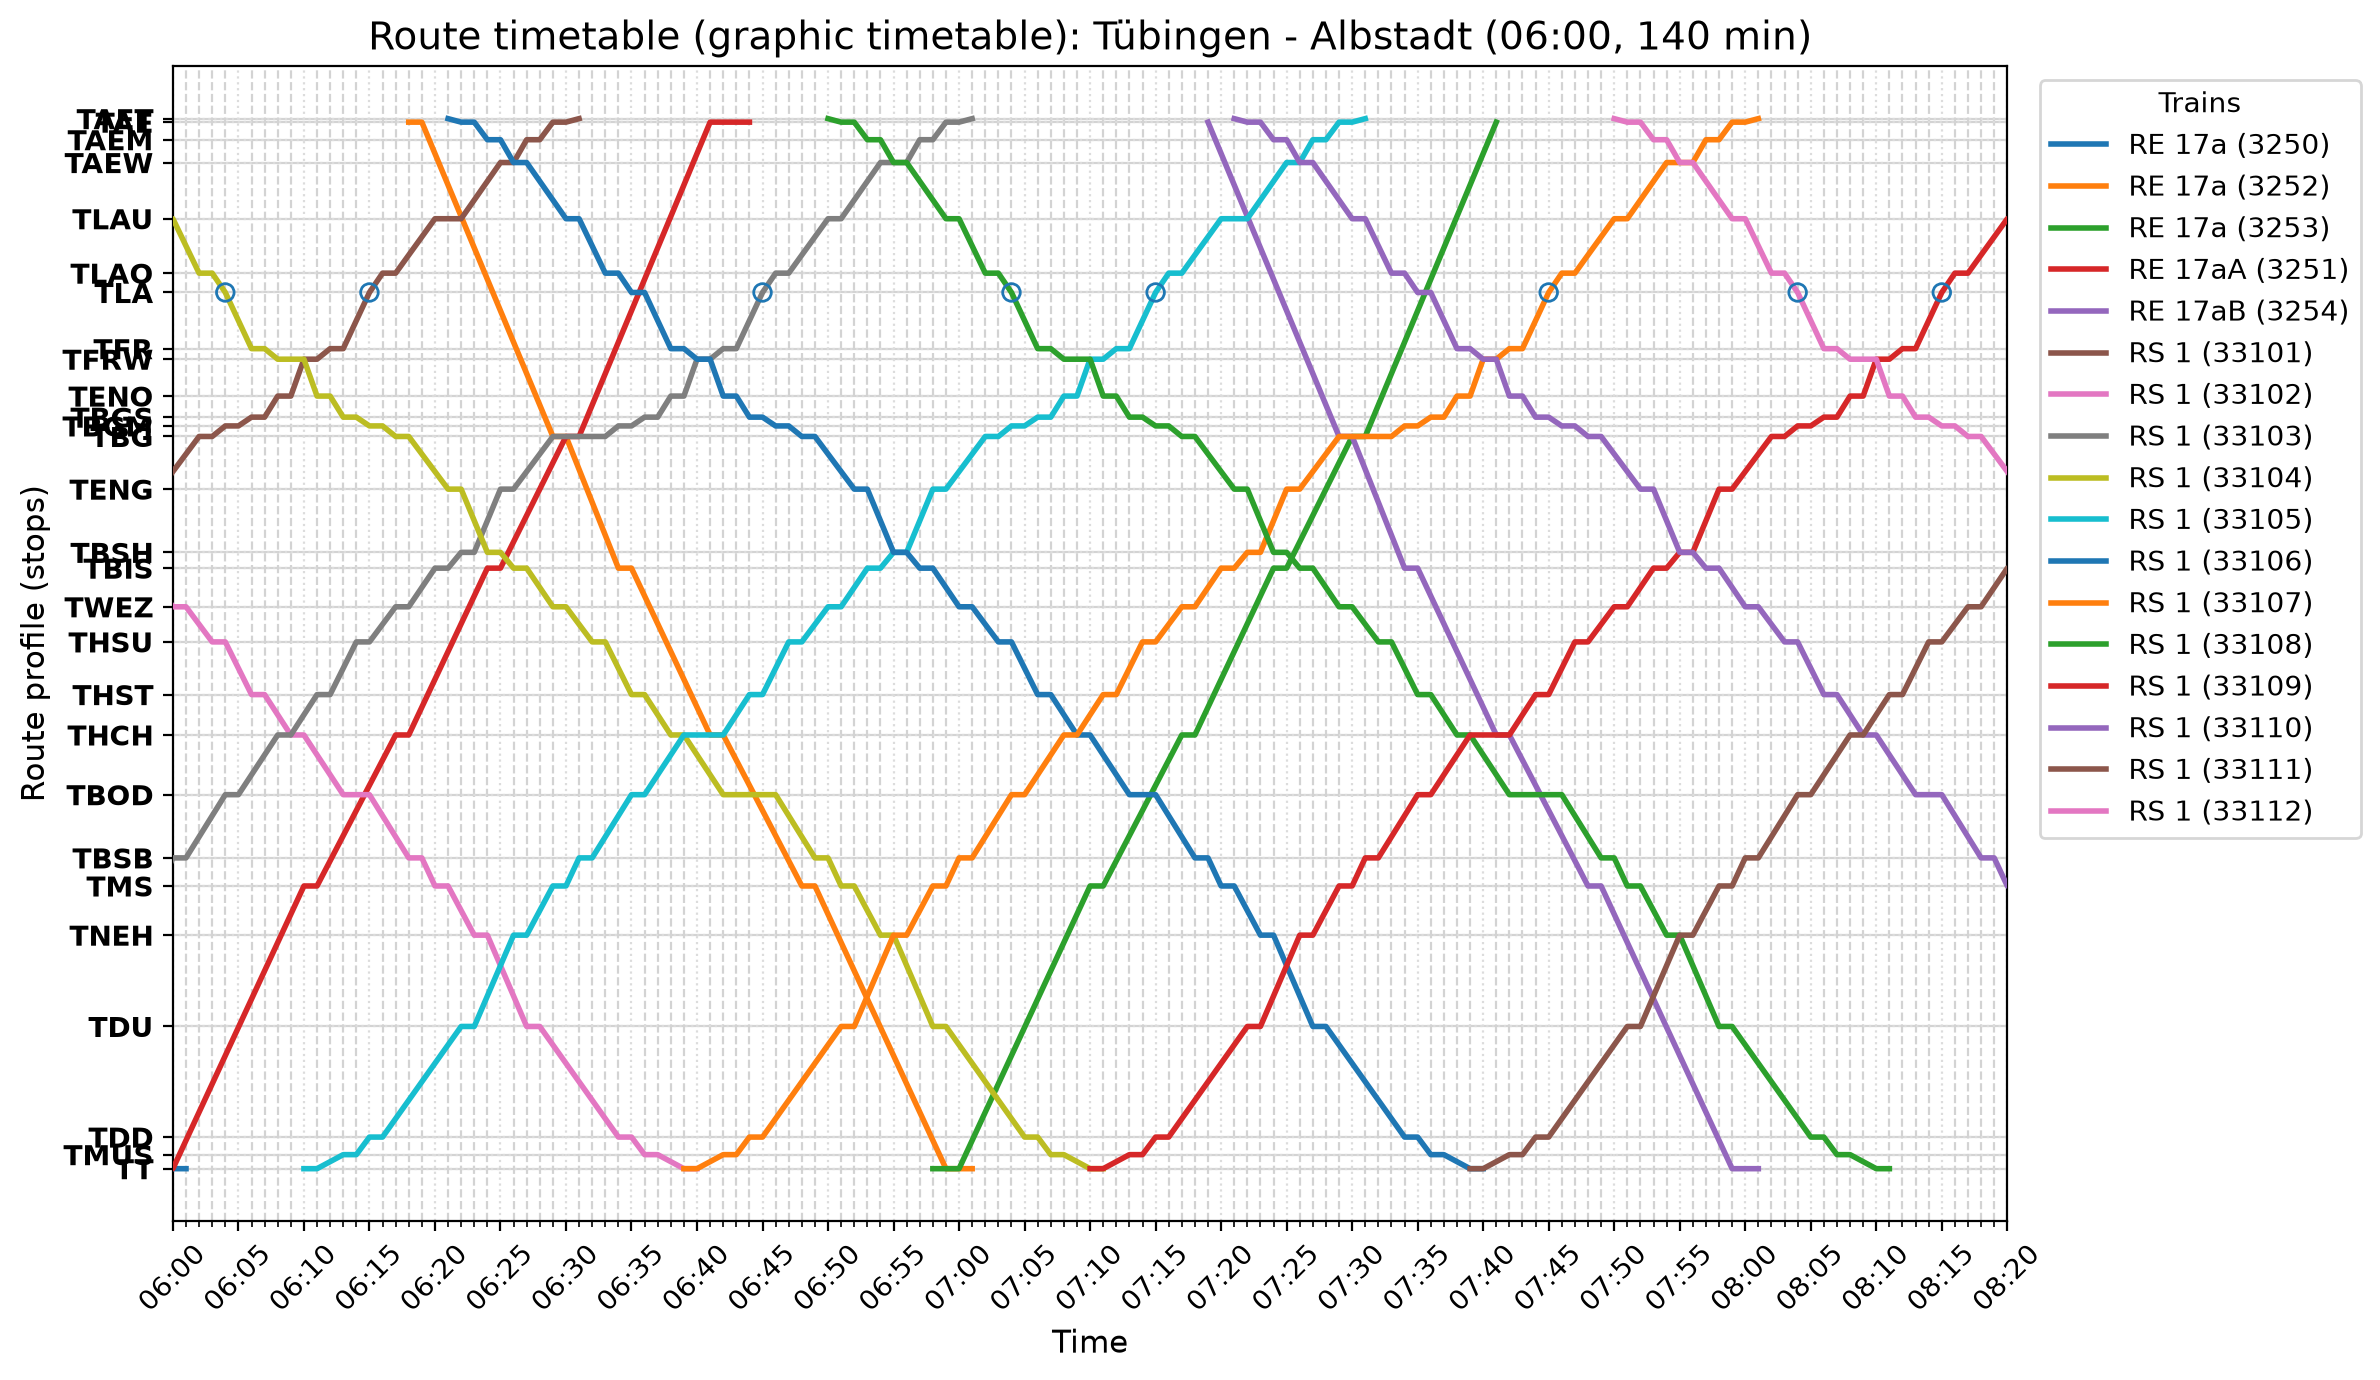
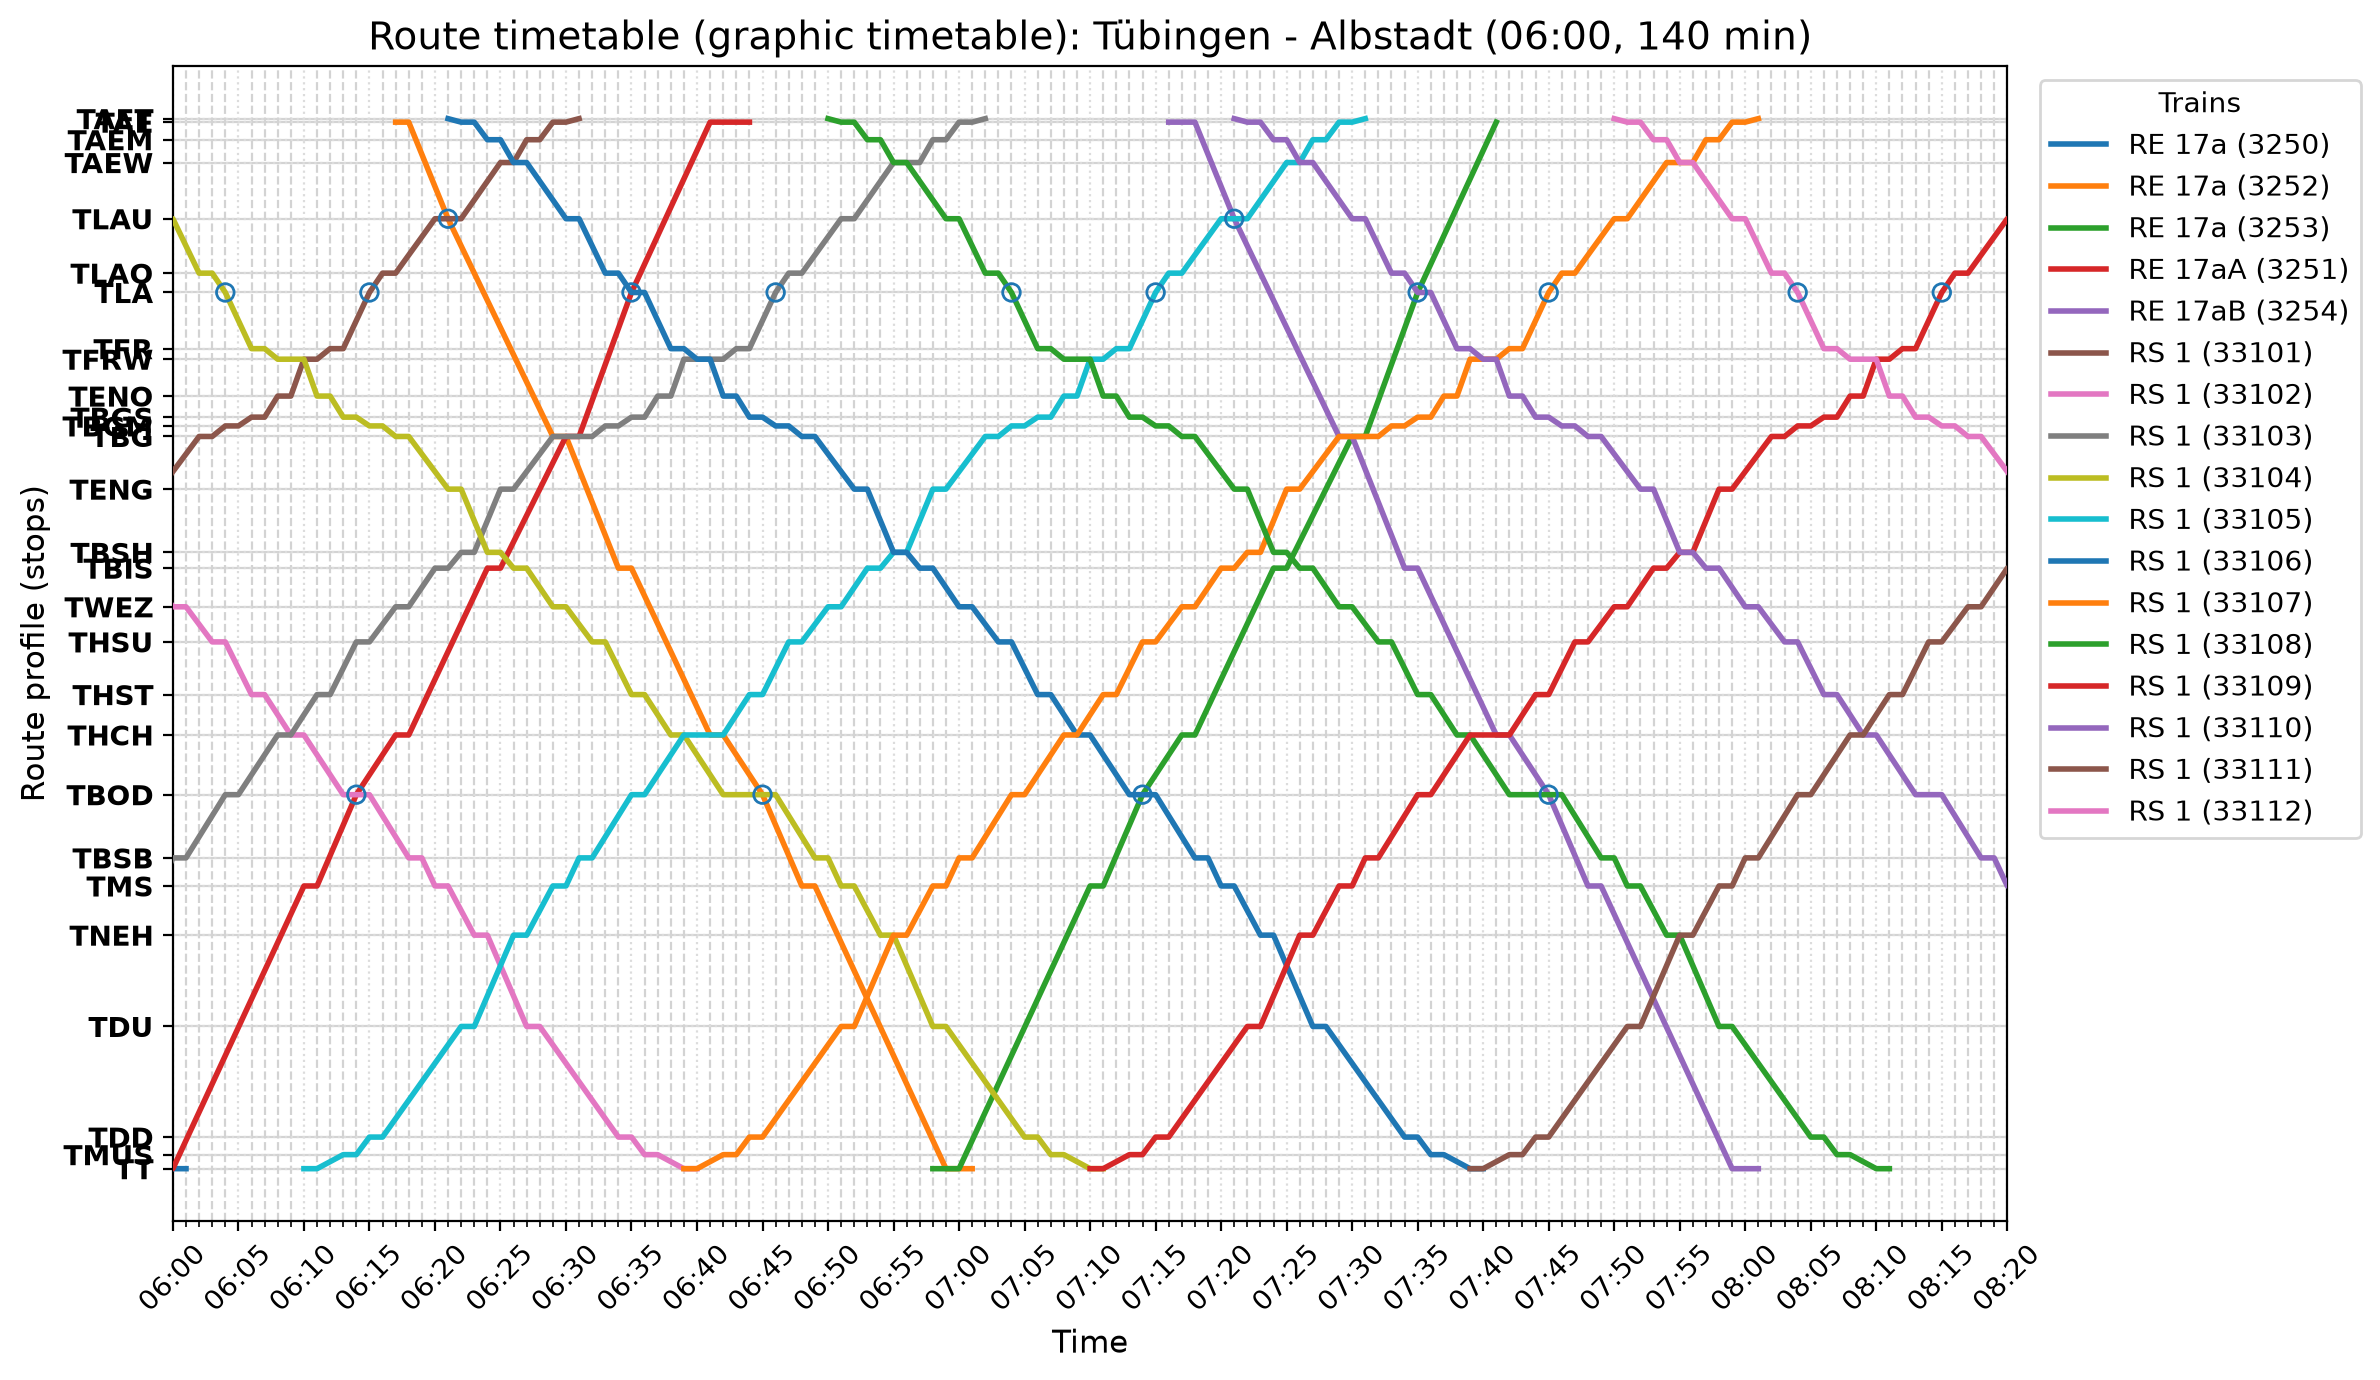
Working Version ZAB

diff --git a/main.py b/main.py
@@ -431,10 +431,10 @@ RE_3253.set_origin("RTU", 1, platform=2)
 RE_3253.change_platform(station_code_to_id("TT"), 2)
 RE_3253.change_platform(station_code_to_id("TBG"), 3)
 
-RE_3254 = Train.from_blueprint(3254, RE17A_ALBSTADT_REUTLINGEN, "RE 17a", "7:16", "LPPLPPL", "REGIONAL", 160)
+RE_3254 = Train.from_blueprint(3254, RE17A_ALBSTADT_REUTLINGEN, "RE 17a", "7:15", "LPPLPPL", "REGIONAL", 160)
 RE_3254.change_platform(station_code_to_id("TT"), 3)
 RE_3254.change_platform(station_code_to_id("TAE"), 2)
-RE_3251.change_platform(station_code_to_id("TBG"), 2)
+RE_3254.change_platform(station_code_to_id("TBG"), 2)
 RE_3254.extend_stop(station_code_to_id("TAE"), 2)
 RE_3254.set_ending(station_code_to_id("RTU"), 1, platform=1)
 RE_3251.add_leg(RE_3254)
@@ -521,6 +521,7 @@ S1_33106 = Train.from_blueprint(33106, RS1_ALBSTADT_TUEBINGEN, "RS 1", "6:21", "
 S1_33106.change_platform(station_code_to_id("TT"), 6)
 S1_33106.set_ending(station_code_to_id("TTBW"), 2)
 S1_33106.extend_stop(station_code_to_id("TLA"), 1)
+S1_33106.change_platform(station_code_to_id("TLA"), 2)
 S1_33106.extend_stop(station_code_to_id("TBOD"), 1)
 
 S1_33108 = Train.from_blueprint(33108, RS1_ALBSTADT_TUEBINGEN, "RS 1", "6:50", "LPLPL")
@@ -533,6 +534,7 @@ S1_33110 = Train.from_blueprint(33110, RS1_ALBSTADT_TUEBINGEN, "RS 1", "7:21", "
 S1_33110.change_platform(station_code_to_id("TT"), 6)
 S1_33110.set_ending(station_code_to_id("TTBW"), 2)
 S1_33110.extend_stop(station_code_to_id("TLA"), 1)
+S1_33110.change_platform(station_code_to_id("TLA"), 2)
 S1_33110.extend_stop(station_code_to_id("TBOD"), 1)
 
 S1_33112 = Train.from_blueprint(33112, RS1_ALBSTADT_TUEBINGEN, "RS 1", "7:50", "LPLPL")

diff --git a/train.py b/train.py
@@ -390,6 +390,8 @@ class Train:
                     departure = arrival + timedelta(minutes=minutes)
                     stop.departure = self._format_time(departure)
                 else:
+                    if arrival is None:
+                        stop.arrival = stop.departure
                     departure = self._parse_time(stop.departure)
                     adjusted_departure = departure + timedelta(minutes=minutes)
                     if arrival is not None and adjusted_departure < arrival:

diff --git a/RSNA.md b/RSNA.md
@@ -601,8 +601,12 @@ RE Abfahrt in TAE immer :17
 - RE 3252 keine Platform in TAE atm ??
 - 3er Kreuzung in TBG verändern, RS 1 auf Gleis 1 als erstes, dann die RE auf 2 und 3 (atm RS 1 steht auf Gleis 3) ✅
   - RS 1 die überholt wird könnte außerdem ne Minute früher los, und dann in TFRW dafür ne Minute länger warten? ✅
-- alle RS 1 Richtung Tü haben kein Ending (+ Gleis Konflikt 11 ist belegt für abfahrende)
+- alle RS 1 Richtung Tü haben kein Ending (+ Gleis Konflikt 11 ist belegt für abfahrende) ✅
 - multiple Leg is broken für trains.txt export, wahrscheinlich mit dem Name Change kaputt gegangen
   - Andere Idee um lange Züge zu splitten -> Coach Yards. Damit würde man auch die Zugnummern ändern können
   - bspw. TTBW Gleis 3, 33, 34 könnte stattdessen ein CY sein, für RS Züge mit Wende auf andere Nummer (ist dann aber assigned zu TT und nicht TTBW, quasi origin platform für TT)
   - Wenn Züge rangiert / gestabled werden sollen auf den Abstellgleisen, geht das nur mit gleichbleibender Zugnummer (und dann entweder mehrere Legs oder selbes Leg)
+
+### Testrun #2
+- Ebingen Abstellung Gleis 2 non-sink für RE Stabling?
+- RE Albstadt - Tü immernoch 1 min late Abfahrt in Tü (planmäßig :01, entweder frühere Ankunft -> shift von ALLEN Zügen probably, oder nur 1 min in TT - unrealistisch...)
